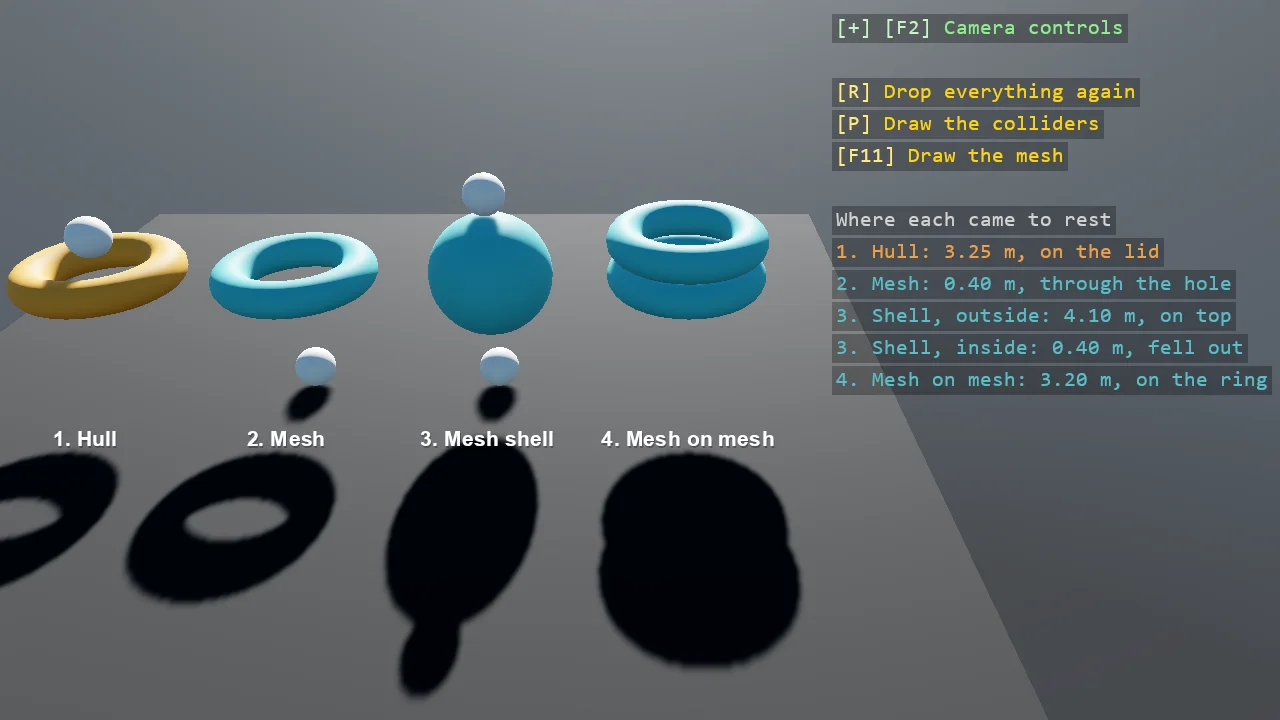
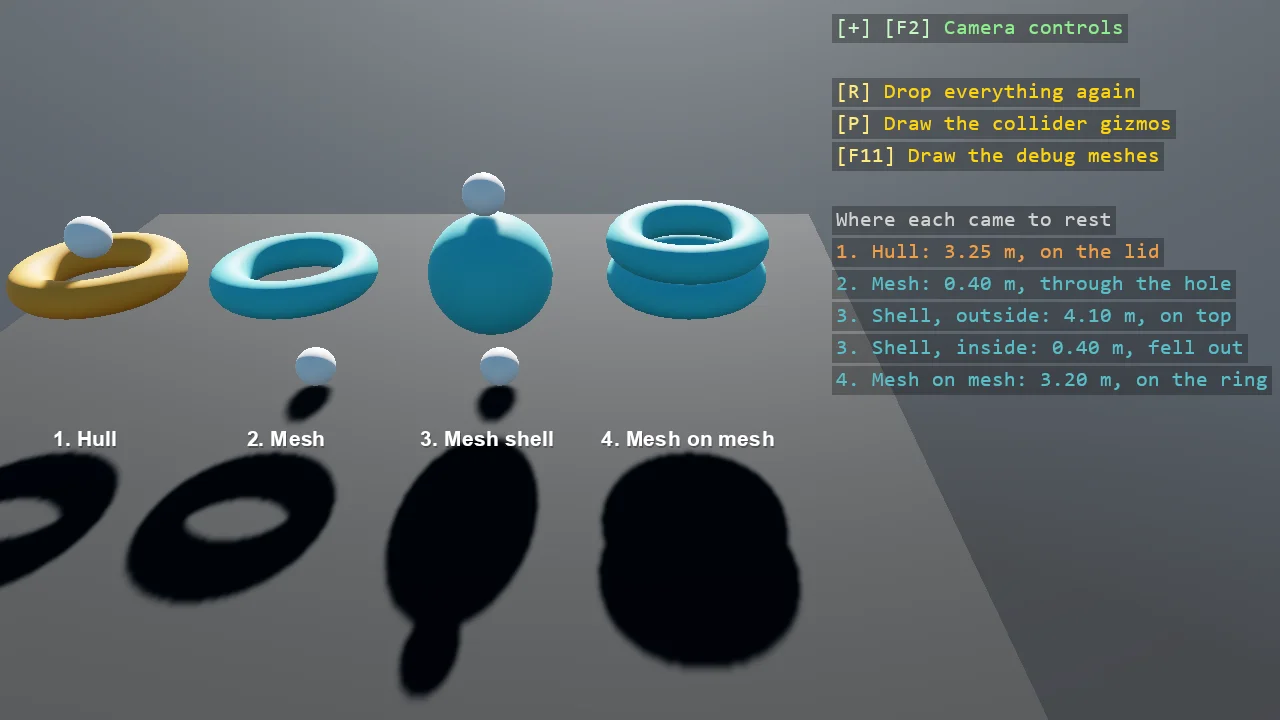
docs: expand mesh collider documentation and navigation
- Add mesh collider artwork, glossary entries, and related example links
- Document mesh collider behavior and grabber support across Bepu examples
- Add the Glossary page to navigation and update the example count
- Clarify mesh collider example overlay controls for gizmos and debug meshes

Changed region(s): [[0.7812, 0.1528, 0.9375, 0.2444]]

diff --git a/examples/code-only/E05_3D_MeshColliders/Program.cs b/examples/code-only/E05_3D_MeshColliders/Program.cs
@@ -220,8 +220,8 @@ IReadOnlyList<TextElement> OverlayLines()
     List<TextElement> lines =
     [
         new("R", "Drop everything again", Color.Gold),
-        new("P", "Draw the colliders", Color.Gold),
-        new("F11", "Draw the mesh", Color.Gold),
+        new("P", "Draw the collider gizmos", Color.Gold),
+        new("F11", "Draw the debug meshes", Color.Gold),
         new(""),
         new("Where each came to rest", Color.LightGray),
     ];

diff --git a/docs/manual/glossary.md b/docs/manual/glossary.md
@@ -74,6 +74,7 @@ is, and sorted alphabetically inside each group. Use your browser's find (Ctrl+F
 - **Entity text**: A screen-space label pinned to an entity, readable at any distance; the gallery's numbered labels. See [Entity text](rendering/entity-text.md).
 - **Forward renderer**: Stride's default way to draw a frame: each mesh is shaded with its lights as it is drawn. See [Rendering pipeline](https://doc.stride3d.net/latest/en/manual/graphics/rendering-pipeline/index.html).
 - **GPU picking**: Answering "what is under this screen point" by drawing entity ids into a hidden image and reading one pixel back, so it works without colliders. See [GPU picking](rendering/gpu-picking.md).
+- **Gizmo**: A helper drawn in the world to show something that has no look of its own: the axes at the origin, a light's direction, the outline of a collider. An editor draws them to grab and drag; the toolkit draws them to see. `game.AddGroundGizmo()` adds the axes and `game.AddPhysicsDebug()` the collider outlines (P) and debug meshes (F11). See [Entity extensions](entity-extensions/index.md) and [Physics extensions](physics-extensions/index.md).
 - **Glow**: In ShapeBatch and charts, a soft halo of a given pixel width outside a shape's edge; not the engine's bloom. See [ShapeBatch](rendering/shape-batch.md).
 - **HDR**: High dynamic range: rendering with colour values above 1, so a bright light or an emissive (glowing) material can be brighter than white, then tone-mapped down for the screen. Stride's default pipeline is HDR. See [Post effects](https://doc.stride3d.net/latest/en/manual/graphics/post-effects/index.html).
 - **HUD**: Heads-up display: text and shapes drawn on the screen rather than in the world, such as a score, a health bar or a crosshair. Screen-space ShapeBatch and the debug overlay draw one. See [ShapeBatch](rendering/shape-batch.md).
@@ -141,6 +142,7 @@ is, and sorted alphabetically inside each group. Use your browser's find (Ctrl+F
 - **Contact spring**: How Bepu models two things touching: as a spring with a frequency (stiffness) and a damping ratio (how much of a hit it absorbs). The pair decides whether a body bounces; with the defaults nothing does. See [Bounce and friction](physics-extensions/bepu-contact-materials.md).
 - **Convex hull**: The smallest shape with no inward dents that encloses a set of points, like shrink-wrap around a mesh. Used as a collider for shapes that are not primitives; hulls are expensive to build, so the toolkit shares one between bodies of the same shape. See [Who owns the transform?](physics-extensions/bepu-transform-ownership.md).
 - **Kinematic body**: A body that moves only where you put it, pushes others, and is not pushed back: platforms, doors. See [Kinematic rigid bodies](https://doc.stride3d.net/latest/en/manual/physics/kinematic-rigid-bodies.html).
+- **Mesh collider**: A collider that is the model's own triangles, so a ring keeps its hole where a convex hull would fill it. Built from any model, loaded or procedural, and usually static: a mesh is a surface with no inside, and two meshes meeting costs triangle against triangle. See [Physics extensions](physics-extensions/index.md) and `E05_3D_MeshColliders`.
 - **Motor / servo**: A constraint that drives towards a target velocity (motor) or a target position (servo). See [Why isn't my constraint doing anything?](physics-extensions/bepu-constraints.md).
 - **NaN**: Not a Number: a special floating-point value produced by an undefined calculation, such as `0f / 0f`. NaN values spread through every calculation they touch and can disrupt a physics simulation; a body whose position becomes NaN is lost. See [Single.NaN](https://learn.microsoft.com/en-us/dotnet/api/system.single.nan) and [Who owns the transform?](physics-extensions/bepu-transform-ownership.md).
 - **Overlap / sweep query**: Asking which bodies a shape touches (overlap) or what a shape would hit if moved along a line (sweep). See [Physics queries](https://doc.stride3d.net/latest/en/manual/physics/physics-queries/index.html).

diff --git a/docs/release-notes/index.md b/docs/release-notes/index.md
@@ -25,6 +25,8 @@ The Stride Community Toolkit is developed with rapid iteration in mind. It moves
 
 ### 📄 Docs
 
+- The glossary is in the top navigation, and defines gizmo and mesh collider.
+
 ### 🎓 Examples
 
 - `E05_3D_MeshColliders`: a convex hull against a mesh collider on the same ring model, with a ball resting on the hull's lid and falling through the mesh's hole; a mesh sphere with a ball outside and one inside shows that a mesh has no inside; a moving mesh ring lands on a mesh ring. The overlay prints where each dropped thing came to rest, measured, and P draws the colliders.
